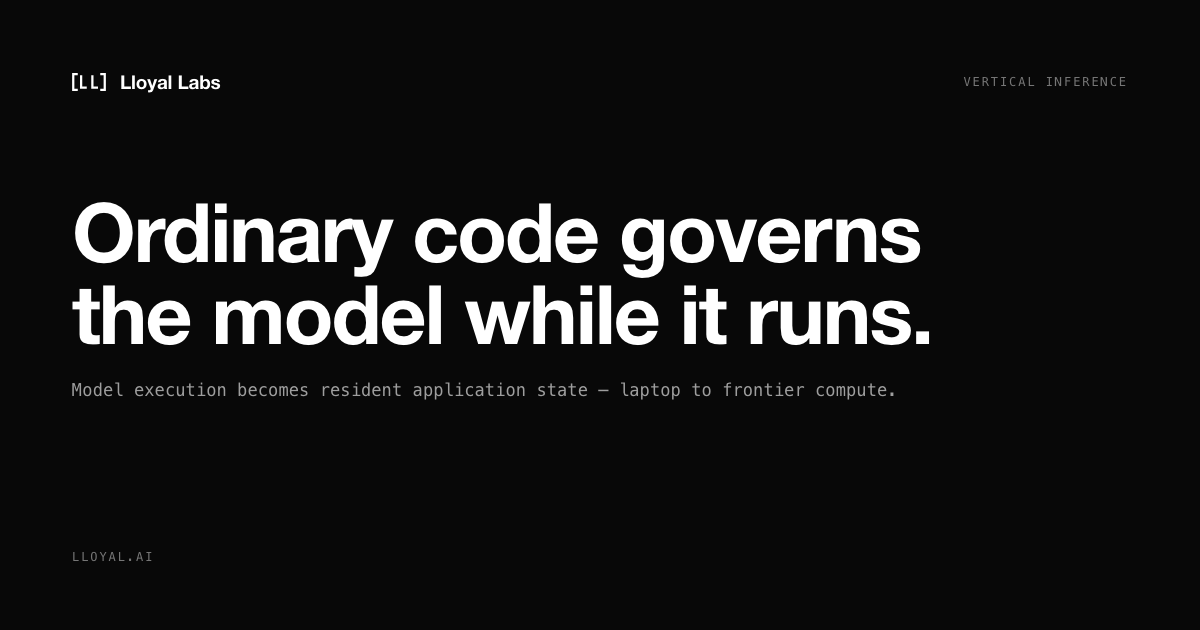
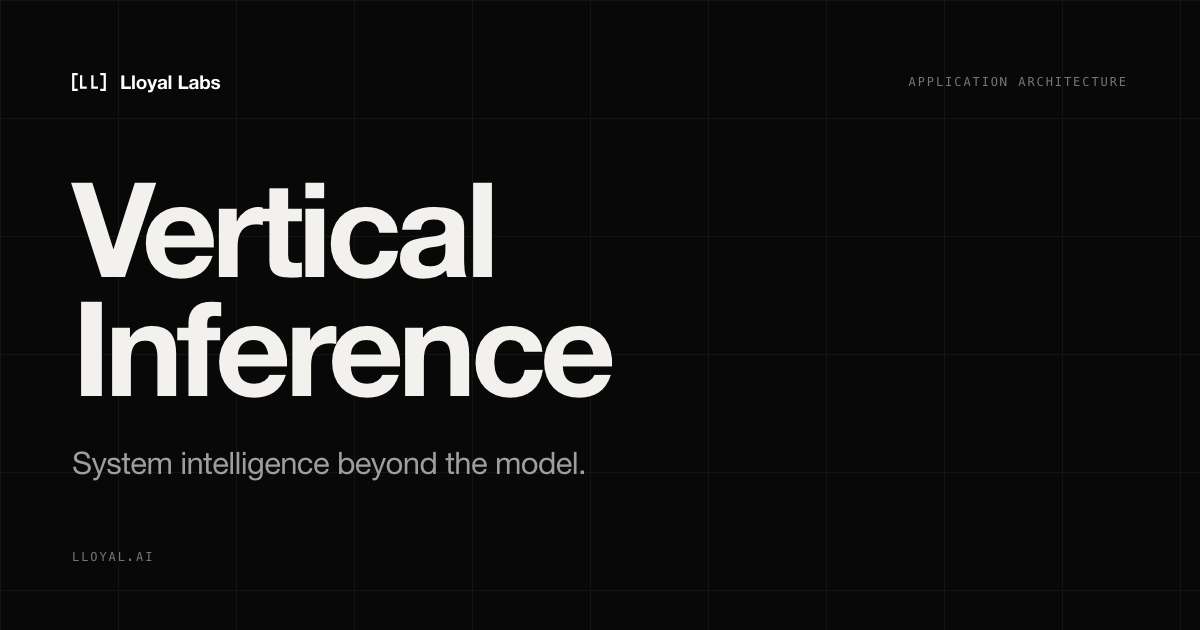
site: the card carries the hero, the title carries the claim
The card is now the hero itself — Vertical Inference, system
intelligence beyond the model — so the preview and the page a visitor
lands on are continuous, and the display type survives being scaled to
a thumbnail, which the previous two lines of body text did not.

That freed the title, which had been repeating the same two words the
image was already showing. It now states the claim, so the three slots
read as category, then claim, then mechanism rather than saying
"Vertical Inference" twice and the proposition nowhere.

Changed region(s): [[0.0617, 0.2714, 0.7708, 0.6333], [0.0617, 0.7238, 0.4933, 0.754], [0.7708, 0.1206, 0.925, 0.1508]]

diff --git a/index.html b/index.html
@@ -8,22 +8,22 @@
 <link href="https://lloyal.ai/" rel="canonical"/>
 
 <meta content="website" property="og:type"/>
-<meta content="LLoyal Labs — Vertical Inference" property="og:title"/>
+<meta content="Ordinary code governs the model while it runs." property="og:title"/>
 <meta content="Model execution becomes resident application state. Ordinary TypeScript governs how intelligence reasons, acts and continues — laptop to frontier compute." property="og:description"/>
 <meta content="https://lloyal.ai/assets/home-og.png" property="og:image"/>
 <meta content="1200" property="og:image:width"/>
 <meta content="630" property="og:image:height"/>
 <meta content="image/png" property="og:image:type"/>
-<meta content="Ordinary code governs the model while it runs. Lloyal — Vertical Inference." property="og:image:alt"/>
+<meta content="Vertical Inference — system intelligence beyond the model. Lloyal Labs." property="og:image:alt"/>
 <meta content="https://lloyal.ai/" property="og:url"/>
 <meta content="LLoyal Labs" property="og:site_name"/>
 <meta content="en_AU" property="og:locale"/>
 
 <meta content="summary_large_image" name="twitter:card"/>
-<meta content="LLoyal Labs — Vertical Inference" name="twitter:title"/>
+<meta content="Ordinary code governs the model while it runs." name="twitter:title"/>
 <meta content="Model execution becomes resident application state. Ordinary TypeScript governs how intelligence reasons, acts and continues — laptop to frontier compute." name="twitter:description"/>
 <meta content="https://lloyal.ai/assets/home-og.png" name="twitter:image"/>
-<meta content="Ordinary code governs the model while it runs. Lloyal — Vertical Inference." name="twitter:image:alt"/>
+<meta content="Vertical Inference — system intelligence beyond the model. Lloyal Labs." name="twitter:image:alt"/>
 <title>LLoyal Labs — Vertical Inference</title>
 <link href="/styles.css" rel="stylesheet"/>
 <link rel="icon" href="/favicon.png"/>
